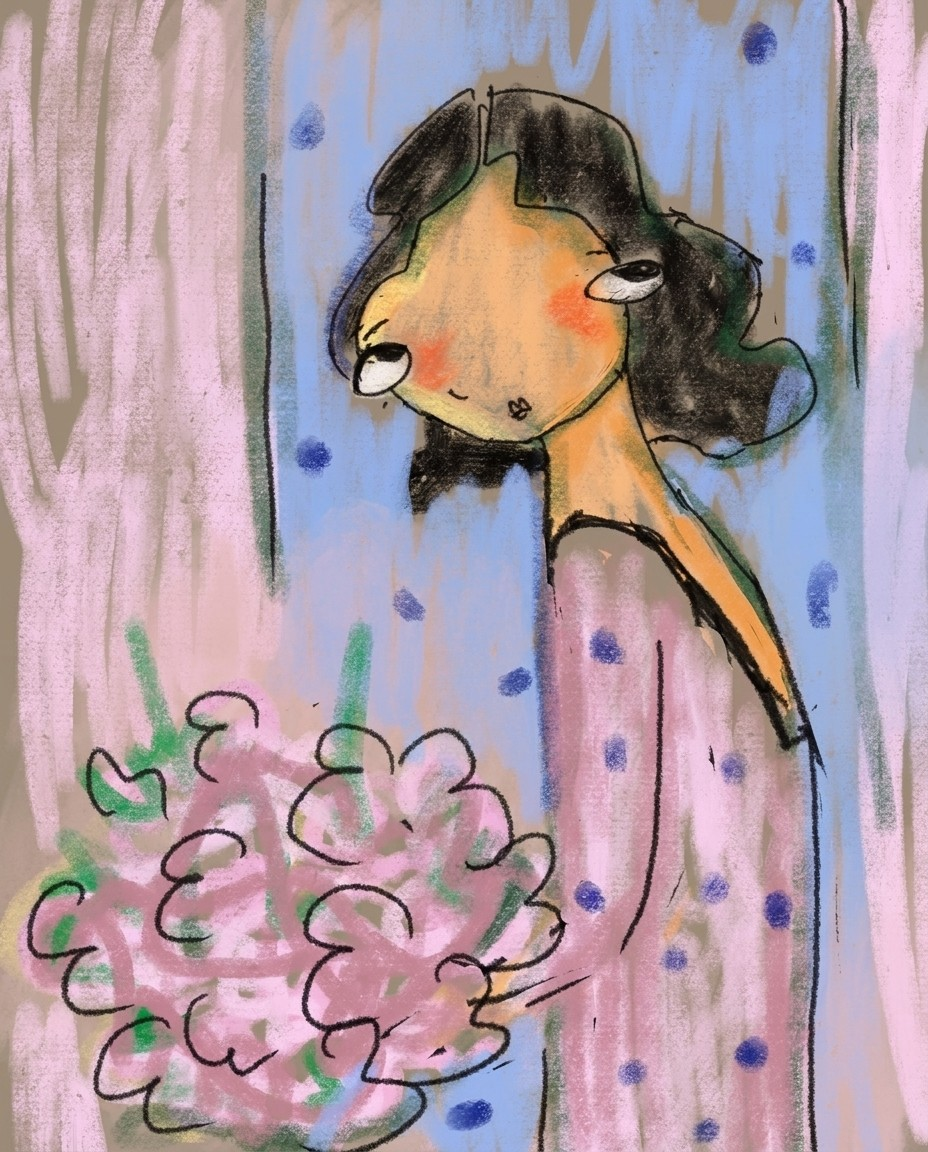
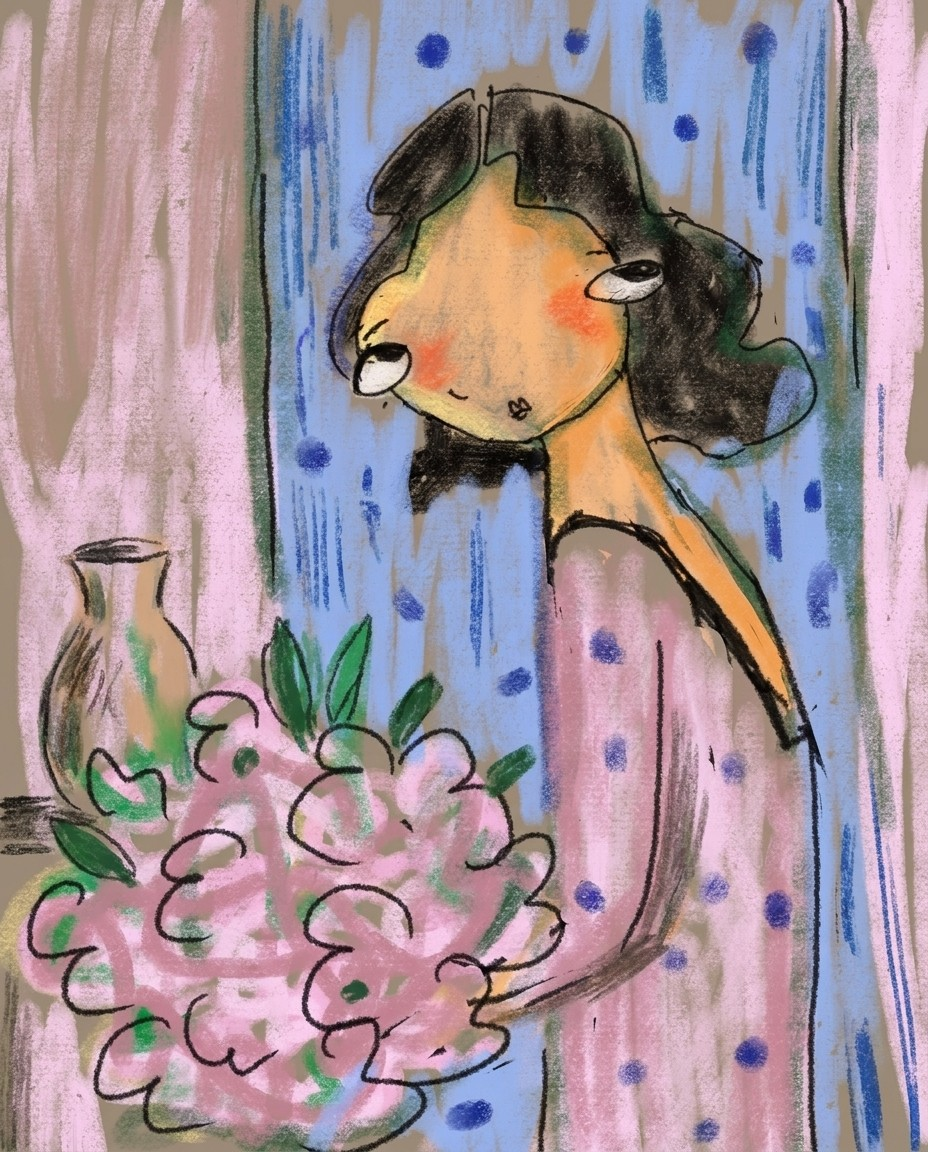
feat(prompt): lock Ambiance v8 — style-continuation framing validated in Krea
Replaces the in-repo v2 "subtle atmospheric overlay" prompt with v8, the
Krea-validated locked version. Jeff iterated through 8 versions in Krea
against multiple Zuzi WIPs and confirmed v8 produces consistently good
outputs across real sources, outperforming the cleaner v7 variants. v8
ships verbatim — no dedup, no shortening — because the redundant style-
anchoring language is load-bearing.

The operation is "continue the painting in her voice", not "add an
atmospheric whisper". v8 frames the model's job as style-continuation:
look at her brushwork / marks / flatness / dimensionality, add MORE of
the same in HER style, and complete the painting in the way SHE would
likely have finished it. Concrete examples ("if she's working flat and
painterly, your additions are flat and painterly...") plus redundant
"HER style, with HER kind of marks" anchors keep Pro from drifting to
its default look.

Iteration lineage (now documented above the constant for future tuning):
  v1 — drifted, repainted everything
  v2 — too subtle (the version that shipped before this commit)
  v3 — bold but crowded
  v4 — quantity-capped, still busy
  v5 — position-locked, lost magic
  v6 — aesthetic-outcome framing, but Pro rendered toward 3D illustration
  v7 — style-continuation framing, removed finish-quality vocabulary
  v8 (locked) — style-continuation + concrete examples + redundant style
                anchors + "she would have completed it" judgment imitation
[…]

diff --git a/lib/gemini/imagePrompts.ts b/lib/gemini/imagePrompts.ts
@@ -12,12 +12,12 @@
  *     prompt — vary colors, preserve everything else. This is the v0 prompt
  *     Zuzi approved during smoke runs; keeping it bit-identical avoids
  *     regressing the validated default.
- *   - `presets` includes `ambiance` → the dedicated atmospheric-pass prompt
- *     (see AMBIANCE_PROMPT_BODY). Ambiance is a focused additive operation
- *     ("add depth and feeling to empty areas"), not a "vary X" operation, so
- *     it doesn't compose with the standard vary-X / preserve-Y template.
- *     When ambiance is checked, its prompt takes priority and any other
- *     checked presets are subsumed — this is intentional, simpler than
+ *   - `presets` includes `ambiance` → the dedicated v8 style-continuation
+ *     prompt (see AMBIANCE_PROMPT_BODY). Ambiance is "complete the painting
+ *     in her voice" — a focused style-continuation operation, not a "vary X"
+ *     operation, so it doesn't compose with the standard vary-X / preserve-Y
+ *     template. When ambiance is checked, its prompt takes priority and any
+ *     other checked presets are subsumed — this is intentional, simpler than
  *     trying to merge contradictory directives ("match palette" + "vary
  *     palette"). Documented in AGENTS.md §4.
  *   - `presets: [<one or more, no ambiance>]` → builder constructs a "vary X,
@@ -52,14 +52,51 @@ export const TILE_COUNT_MAX = 9;
 /** Stable order in which presets appear in the rendered prompt. */
 const PRESET_ORDER: ReadonlyArray<Preset> = PRESETS;
 
-/** Ambiance prompt body. Iterated from the user's spec after the first smoke
- *  showed Pro treating the original "Look at this painting and identify..."
- *  framing as a reimagining cue and drifting the palette + adding decorative
- *  patterns. This version leads with a hard editing directive, enumerates
- *  what must remain identical, and forbids decorative additions explicitly.
- *  The aspect-ratio sentence is appended at render time per AGENTS.md §3. */
-const AMBIANCE_PROMPT_BODY =
-  "Edit this painting by adding atmospheric depth and ambient presence ONLY to the empty, flat, or sparsely painted passages. This is a subtle additive overlay, NOT a reimagining. The figure, pose, clothing, facial features, hair, brushwork, marks, color palette, lighting, and composition must remain IDENTICAL to the input — anyone comparing the input and output side-by-side should see the developed passages as visually unchanged. In the bare areas (typically backgrounds, negative space, undeveloped canvas), add soft tonal modulation and gentle environmental suggestion: the kind of breathy painterly wash that suggests air and depth without depicting any specific object. Use ONLY hues already present in the input painting; do NOT introduce new colors. Do NOT add new subjects, new objects, new figures, decorative patterns, dots, or repeating motifs. Do NOT smooth, finish, or repaint passages the artist has already developed. The output should look like the input painting after the artist made one quiet atmospheric pass with a soft brush over the bare areas — same hand, same voice, same palette, more breath where the canvas was empty.";
+/**
+ * Ambiance prompt body — **v8 (LOCKED)**. Validated by Jeff in Krea against
+ * multiple Zuzi WIPs; produces consistently good outputs and outperforms the
+ * cleaner v7 variants in real-world use.
+ *
+ * DO NOT improve, shorten, or deduplicate the redundant style-anchoring
+ * language. The redundancy is **load-bearing** — it's what makes Pro stay in
+ * Zuzi's voice instead of drifting to a generic "atmospheric overlay" mode.
+ * The two lines that say "in HER style, with HER kind of marks" and the
+ * concrete "if she's working flat / if she's using thick gestural strokes"
+ * examples look redundant on paper; they're the difference between Pro
+ * imitating her hand vs. inventing a new one.
+ *
+ * **Iteration lineage** (kept so future tuning has the prior context, and to
+ * document the failure modes):
+ *   - v1: drifted, repainted everything.
+ *   - v2: too subtle — atmospheric whisper barely visible against developed
+ *     passages.
+ *   - v3: bold but crowded — added too much.
+ *   - v4: quantity-capped ("add no more than two elements"); still busy.
+ *   - v5: position-locked ("only in the upper-left quadrant"); lost magic.
+ *   - v6: aesthetic-outcome framing ("make it feel finished"); Pro rendered
+ *     toward a 3D-illustration finish quality, away from her painterly hand.
+ *   - v7: style-continuation framing; removed finish-quality vocabulary.
+ *     Cleaner prose, but Pro still occasionally drifted to its default look.
+ *   - **v8 (locked)**: style-continuation + concrete style examples
+ *     ("flat and painterly" vs. "thick gestural strokes") + redundant
+ *     style anchors ("HER style, with HER kind of marks") + "she would
+ *     have completed it" judgment-imitation framing. Validated in Krea by
+ *     Jeff across multiple Zuzi WIPs.
+ *
+ * **Lesson for future preset tuning:** longer prompts with redundant style-
+ * anchoring may outperform cleaner shorter ones, especially when the goal
+ * is voice-preservation. Don't deduplicate aggressively. Real-output
+ * evidence > prose elegance.
+ *
+ * The aspect-ratio sentence is appended at render time per AGENTS.md §3.
+ */
+const AMBIANCE_PROMPT_BODY = `Continue this painting in the same style the artist is already using. Look at her brushwork, her marks, her flatness or dimensionality, her color application, her level of finish — and add more of the same. Extend her painting in her own voice. But do so in a way that completes the painting in the most satisfying way visually.
+
+Do NOT make the image busy or change the composition. Your final image should look like the input image with additional work put into completing the image in a way that she would likely have completed it. It should feel not overly empty or not overfilled with new things.
+
+You can add elements — a small object, a mark in negative space, something in the background, atmospheric depth — but everything you add must be painted in HER style, with HER kind of marks. If she's working flat and painterly, your additions are flat and painterly. If she's using thick gestural strokes, your additions are thick gestural strokes. Match her hand exactly.
+
+The output should look like a finished version of the input painting.`;
 
 /** What each preset commands the model to vary, when checked. Ambiance has a
  *  placeholder here for type-completeness but is never rendered through the
@@ -107,13 +144,17 @@ export function buildPrompt({ presets, aspectRatio }: BuildPromptArgs): string {
     return `This painting is shown as the input image. Reimagine it with new colors of your own choosing — pick whatever colors you think will make this painting as beautiful as possible. Preserve the brushwork, drawing style, marks, composition, subject, level of finish, and value structure exactly. Only the colors change. Match the input aspect ratio exactly (${aspectRatio}).`;
   }
 
-  // Ambiance dominates — when checked, the dedicated atmospheric-pass prompt
-  // is used. Other checked presets are intentionally subsumed because mixing
-  // ambiance's "match the existing palette" directive with e.g. color's "vary
-  // the palette" produces contradictory instructions. Simpler is right here:
-  // ambiance is a focused additive operation, not a "vary X" knob.
+  // Ambiance dominates — when checked, the dedicated v8 style-continuation
+  // prompt is used. Other checked presets are intentionally subsumed because
+  // mixing ambiance's "continue in her style" directive with e.g. color's
+  // "vary the palette" produces contradictory instructions. Ambiance is a
+  // focused style-continuation operation, not a "vary X" knob.
+  //
+  // The body is multiline (paragraph-separated) by design — v8 was validated
+  // in Krea with this exact paragraph structure, so we preserve it. The
+  // aspect-ratio sentence joins as its own trailing paragraph.
   if (presets.includes("ambiance")) {
-    return `${AMBIANCE_PROMPT_BODY} Match the input aspect ratio exactly (${aspectRatio}).`;
+    return `${AMBIANCE_PROMPT_BODY}\n\nMatch the input aspect ratio exactly (${aspectRatio}).`;
   }
 
   // Project to a deduped, stably-ordered array of valid presets. Filter

diff --git a/components/krea/InputBar.tsx b/components/krea/InputBar.tsx
@@ -39,11 +39,12 @@ const PRESET_LABEL: Record<Preset, string> = {
 };
 
 /** Optional one-line subline rendered under the checkbox label. Only Ambiance
- *  has one in v1 — the operation is non-obvious from the name alone, and
- *  Composition (which had been intuitive) was removed in favor of it. The
- *  others read literally. */
+ *  has one — the operation is non-obvious from the name alone, and Composition
+ *  (which had been intuitive) was removed in favor of it. The others read
+ *  literally. Phrasing tracks the v8 prompt's "continue in her voice" framing;
+ *  see lib/gemini/imagePrompts.ts AMBIANCE_PROMPT_BODY. */
 const PRESET_SUBLINE: Partial<Record<Preset, string>> = {
-  ambiance: "add depth and feeling to empty areas",
+  ambiance: "complete it in her voice",
 };
 
 function PillToggle<T extends string>({

diff --git a/samples/day-0/README.md b/samples/day-0/README.md
@@ -1,0 +1,51 @@
+# Day-0 regression baselines
+
+Reference outputs from `scripts/smoke.ts` against `samples/inputs/`. Each
+sub-directory is one (input × prompt-config) pair. Files inside are the
+generated tiles (`tile-01.jpg`, `tile-02.jpg`, ...). When tuning prompts
+or model parameters, regenerate the relevant baseline so future eyeball
+checks have a stable reference for "what good output looks like."
+
+The smoke runner writes to a slug-derived directory by default (e.g.
+`untitled_artwork_3/`). For non-default preset configurations we move the
+output to a suffixed sibling directory (e.g. `untitled_artwork_3-ambiance/`)
+so the canonical default-prompt baseline stays at the unsuffixed path.
+
+## Inputs
+
+| Input | Description |
+|---|---|
+| `samples/inputs/Untitled_Artwork 3.jpeg` | A 4:5 Zuzi-style figurative WIP — woman with bouquet, pink/blue palette, dotted background. Used for prompt-tuning regressions because it has both developed passages (the figure) and sparse passages (the streaky wall) that surface different prompt-failure modes. |
+
+## Baselines
+
+| Directory | Input | Model · Resolution · Count | Prompt | Notes |
+|---|---|---|---|---|
+| `untitled_artwork_3/` | Untitled_Artwork 3 | Pro · 1K · 3 | **Freeform** (empty presets) — the validated v0 "make this beautiful" prompt: vary colors, preserve everything else | Canonical default-prompt baseline. Matches the smoke-validated default that Zuzi originally approved. |
+| `untitled_artwork_3-ambiance/` | Untitled_Artwork 3 | Pro · 1K · 3 | **Ambiance v8 (locked)** — see `lib/gemini/imagePrompts.ts AMBIANCE_PROMPT_BODY`. Style-continuation framing: "continue the painting in her voice; add elements in her style." | Validated by Jeff in Krea against multiple Zuzi WIPs before being ported. Outputs visibly add painterly content (small vase in negative space, more developed bouquet) in the source's flat-painterly style, while preserving palette and composition. |
+
+## Prompt version history
+
+The Ambiance prompt went through 8 iterations before locking. Lineage and
+the "load-bearing redundancy" lesson are documented in the comment block
+above `AMBIANCE_PROMPT_BODY` in `lib/gemini/imagePrompts.ts`. **Do not
+deduplicate the v8 prompt — the redundant style-anchoring language is
+load-bearing.**
+
+## When to regenerate
+
+- Prompt change in `lib/gemini/imagePrompts.ts` → regenerate the affected
+  baseline so the committed reference matches what the current code
+  produces.
+- Model upgrade (Gemini 3.x → next) → regenerate all baselines, note the
+  model version in this README.
+- Pricing change in `lib/cost.ts` → no regen needed (cost is metadata,
+  not output).
+
+## Cost
+
+Each baseline tile = `pricePerImage(tier, resolution)` per
+`lib/cost.ts`. A 3-tile Pro 1K regen = ~$0.40. Smoke runs do NOT honor
+the monthly cap (they bypass `/api/iterate`'s cap-check by calling the
+worker directly), so don't loop them in a script without tracking
+manually.
